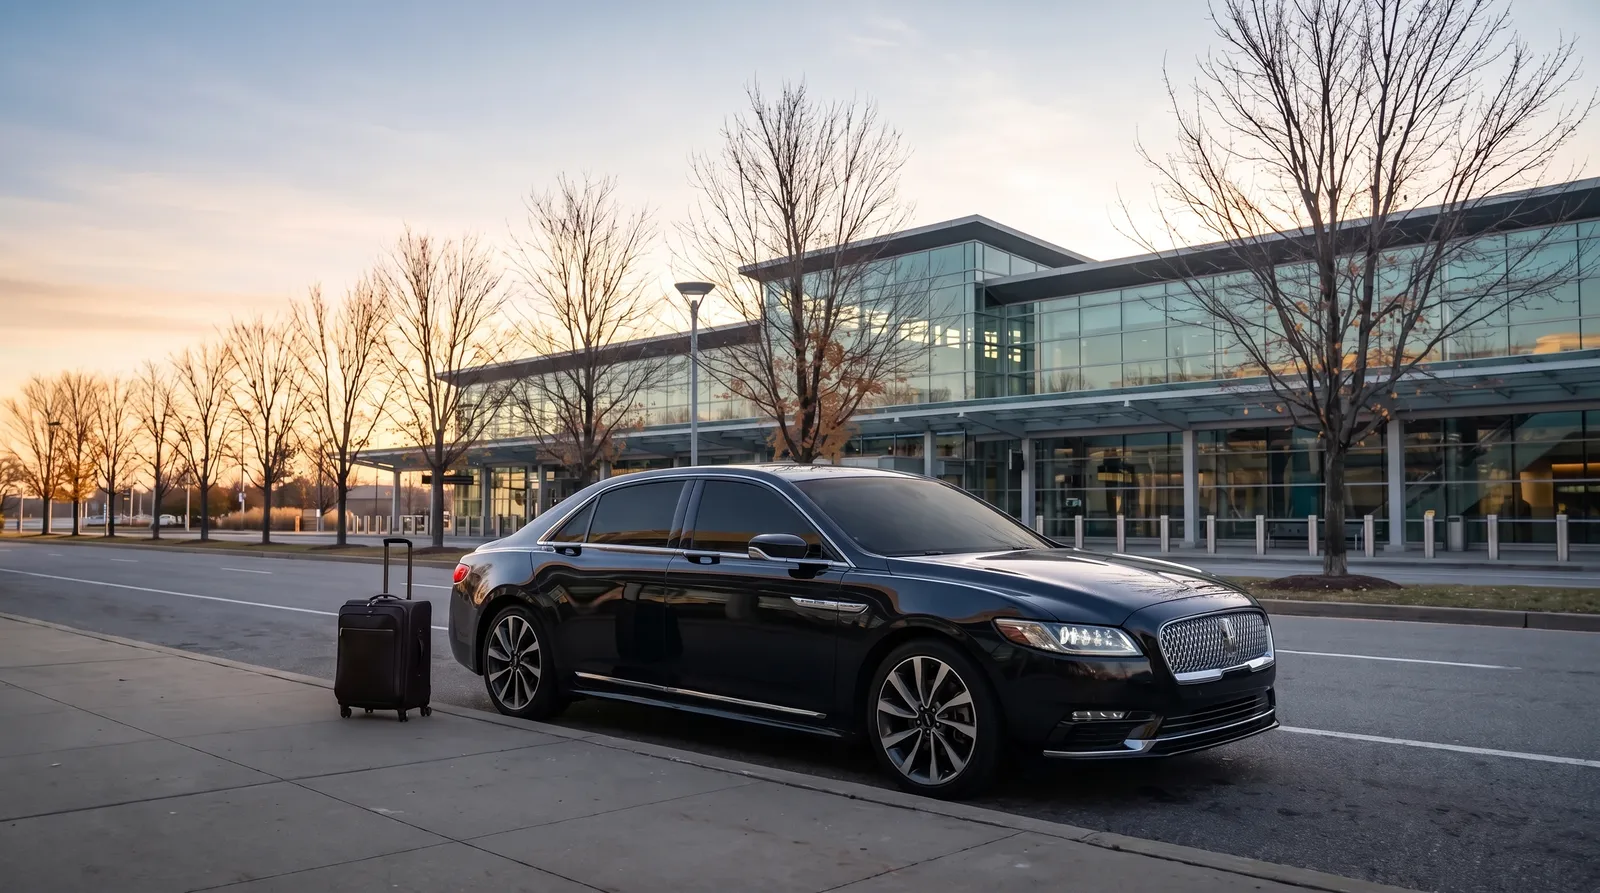
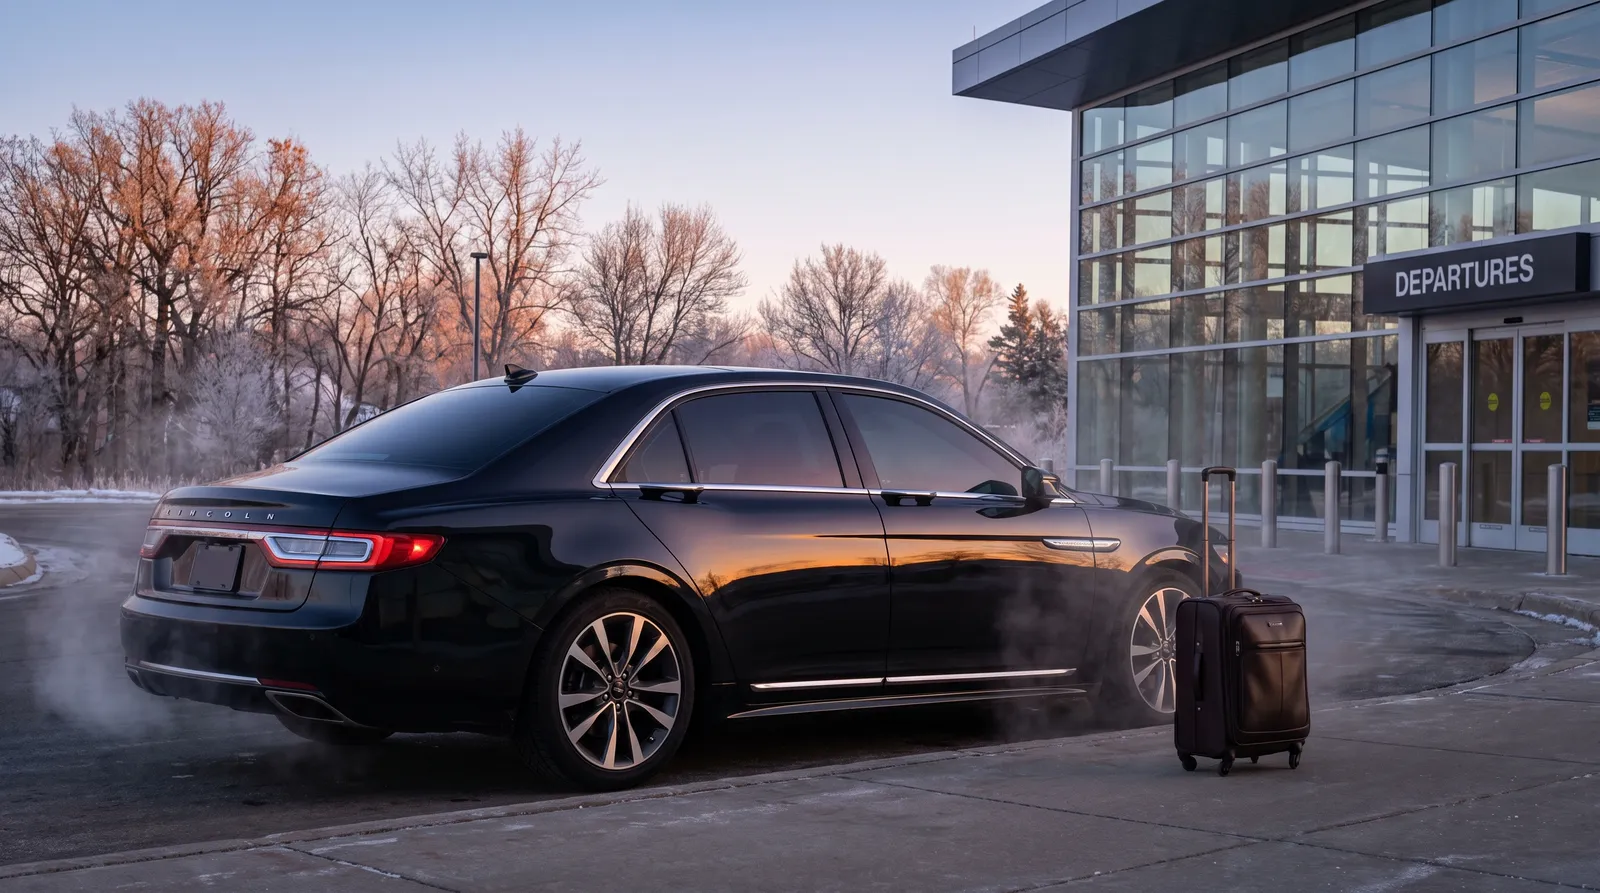
Home: four larger service cards (removed Twin Cities and Long Distance); hourly and blog sunrise images parked at the curb
Claude-Session: https://claude.ai/code/session_01VC4qVVWNY9LKdkogmsrPYJ

diff --git a/index.html b/index.html
@@ -543,13 +543,13 @@
                     </p>
                 </div>
 
-                <div class="grid md:grid-cols-2 lg:grid-cols-3 gap-6 lg:gap-8">
+                <div class="grid md:grid-cols-2 gap-8 lg:gap-10">
                     <!-- Airport Transfers -->
                     <a href="msp-airport-black-car-service.html" class="group relative plate bg-lacquer-850/50 p-8 hover:bg-lacquer-850/90 transition-all duration-500 reveal">
-<div class="mb-7 overflow-hidden"><img src="images/site/airport-transfer.webp" alt="Black luxury SUV pulling up to the MSP airport terminal pickup zone at golden hour with a jet taking off behind" class="block w-full aspect-[16/9] object-cover transition-transform duration-700 group-hover:scale-[1.03]" width="1600" height="893" loading="lazy"></div>
+<div class="mb-7 overflow-hidden"><img src="images/site/airport-transfer.webp" alt="Black luxury SUV pulling up to the MSP airport terminal pickup zone at golden hour with a jet taking off behind" class="block w-full aspect-[16/10] object-cover transition-transform duration-700 group-hover:scale-[1.03]" width="1600" height="893" loading="lazy"></div>
                         <div class="text-[10px] tracking-luxe uppercase text-brass-400 mb-5">No. 1 — House Specialty</div>
-                        <h3 class="text-xl font-display text-ivory-100 mb-3">MSP Airport Transfers</h3>
-                        <p class="text-lacquer-300 font-light mb-6 leading-relaxed">
+                        <h3 class="text-2xl lg:text-3xl font-display text-ivory-100 mb-3">MSP Airport Transfers</h3>
+                        <p class="text-lacquer-300 font-light mb-6 leading-relaxed text-base lg:text-lg">
                             Door-to-terminal service with flight tracking, both terminals, every hour of the night.
                         </p>
                         <div class="flex items-center justify-between">
@@ -562,10 +562,10 @@
 
                     <!-- Corporate -->
                     <a href="corporate-car-service.html" class="group relative plate bg-lacquer-850/50 p-8 hover:bg-lacquer-850/90 transition-all duration-500 reveal">
-<div class="mb-7 overflow-hidden"><img src="images/site/corporate.webp" alt="Executive working on a laptop in the rear seat of a black luxury SUV on the way to a meeting" class="block w-full aspect-[16/9] object-cover transition-transform duration-700 group-hover:scale-[1.03]" width="1600" height="1195" loading="lazy"></div>
+<div class="mb-7 overflow-hidden"><img src="images/site/corporate.webp" alt="Executive working on a laptop in the rear seat of a black luxury SUV on the way to a meeting" class="block w-full aspect-[16/10] object-cover transition-transform duration-700 group-hover:scale-[1.03]" width="1600" height="1195" loading="lazy"></div>
                         <div class="text-[10px] tracking-luxe uppercase text-brass-400 mb-5">No. 2</div>
-                        <h3 class="text-xl font-display text-ivory-100 mb-3">Executive &amp; Corporate</h3>
-                        <p class="text-lacquer-300 font-light mb-6 leading-relaxed">
+                        <h3 class="text-2xl lg:text-3xl font-display text-ivory-100 mb-3">Executive &amp; Corporate</h3>
+                        <p class="text-lacquer-300 font-light mb-6 leading-relaxed text-base lg:text-lg">
                             Town car service for meetings, roadshows, and clients you need to impress.
                         </p>
                         <div class="flex items-center justify-between">
@@ -576,28 +576,12 @@
                         </div>
                     </a>
 
-                    <!-- City transfers -->
-                    <a href="point-to-point-transportation.html" class="group relative plate bg-lacquer-850/50 p-8 hover:bg-lacquer-850/90 transition-all duration-500 reveal">
-<div class="mb-7 overflow-hidden"><img src="images/site/twin-cities.webp" alt="Black GMC Yukon Denali crossing the Stone Arch Bridge with the Minneapolis skyline at blue hour" class="block w-full aspect-[16/9] object-cover transition-transform duration-700 group-hover:scale-[1.03]" width="1600" height="893" loading="lazy"></div>
-                        <div class="text-[10px] tracking-luxe uppercase text-brass-400 mb-5">No. 3</div>
-                        <h3 class="text-xl font-display text-ivory-100 mb-3">Twin Cities Car Service</h3>
-                        <p class="text-lacquer-300 font-light mb-6 leading-relaxed">
-                            Point-to-point across Minneapolis, Saint Paul, and every suburb between.
-                        </p>
-                        <div class="flex items-center justify-between">
-                            <span class="text-oxblood-300 font-medium">From $60</span>
-                            <svg class="w-5 h-5 text-lacquer-500 group-hover:text-oxblood-300 group-hover:translate-x-1 transition-all duration-300" fill="none" stroke="currentColor" viewBox="0 0 24 24">
-                                <path stroke-linecap="round" stroke-linejoin="round" stroke-width="1.5" d="M17 8l4 4m0 0l-4 4m4-4H3"/>
-                            </svg>
-                        </div>
-                    </a>
-
                     <!-- Limo -->
                     <a href="limousine-service-minneapolis.html" class="group relative plate bg-lacquer-850/50 p-8 hover:bg-lacquer-850/90 transition-all duration-500 reveal">
-<div class="mb-7 overflow-hidden"><img src="images/site/evt-escalade-gala.webp" alt="Chauffeur holding the door of a black Cadillac Escalade for a couple arriving at a gala at night" class="block w-full aspect-[16/9] object-cover transition-transform duration-700 group-hover:scale-[1.03]" width="1600" height="893" loading="lazy"></div>
-                        <div class="text-[10px] tracking-luxe uppercase text-brass-400 mb-5">No. 4</div>
-                        <h3 class="text-xl font-display text-ivory-100 mb-3">Limousine &amp; Events</h3>
-                        <p class="text-lacquer-300 font-light mb-6 leading-relaxed">
+<div class="mb-7 overflow-hidden"><img src="images/site/evt-escalade-gala.webp" alt="Chauffeur holding the door of a black Cadillac Escalade for a couple arriving at a gala at night" class="block w-full aspect-[16/10] object-cover transition-transform duration-700 group-hover:scale-[1.03]" width="1600" height="893" loading="lazy"></div>
+                        <div class="text-[10px] tracking-luxe uppercase text-brass-400 mb-5">No. 3</div>
+                        <h3 class="text-2xl lg:text-3xl font-display text-ivory-100 mb-3">Limousine &amp; Events</h3>
+                        <p class="text-lacquer-300 font-light mb-6 leading-relaxed text-base lg:text-lg">
                             Weddings, galas, and nights out — an Escalade for the couple, a Sprinter for the party.
                         </p>
                         <div class="flex items-center justify-between">
@@ -610,10 +594,10 @@
 
                     <!-- Groups -->
                     <a href="group-transportation.html" class="group relative plate bg-lacquer-850/50 p-8 hover:bg-lacquer-850/90 transition-all duration-500 reveal">
-<div class="mb-7 overflow-hidden"><img src="images/site/group.webp" alt="Black Mercedes Sprinter executive van with its door open at a hotel entrance, luggage lined up on the sidewalk" class="block w-full aspect-[16/9] object-cover transition-transform duration-700 group-hover:scale-[1.03]" width="1600" height="893" loading="lazy"></div>
-                        <div class="text-[10px] tracking-luxe uppercase text-brass-400 mb-5">No. 5</div>
-                        <h3 class="text-xl font-display text-ivory-100 mb-3">Group Transportation</h3>
-                        <p class="text-lacquer-300 font-light mb-6 leading-relaxed">
+<div class="mb-7 overflow-hidden"><img src="images/site/group.webp" alt="Black Mercedes Sprinter executive van with its door open at a hotel entrance, luggage lined up on the sidewalk" class="block w-full aspect-[16/10] object-cover transition-transform duration-700 group-hover:scale-[1.03]" width="1600" height="893" loading="lazy"></div>
+                        <div class="text-[10px] tracking-luxe uppercase text-brass-400 mb-5">No. 4</div>
+                        <h3 class="text-2xl lg:text-3xl font-display text-ivory-100 mb-3">Group Transportation</h3>
+                        <p class="text-lacquer-300 font-light mb-6 leading-relaxed text-base lg:text-lg">
                             Sprinter vans for conferences, wedding parties, and crews of up to ten with luggage.
                         </p>
                         <div class="flex items-center justify-between">
@@ -624,21 +608,6 @@
                         </div>
                     </a>
 
-                    <!-- Long distance -->
-                    <a href="service-area.html" class="group relative plate bg-lacquer-850/50 p-8 hover:bg-lacquer-850/90 transition-all duration-500 reveal">
-<div class="mb-7 overflow-hidden"><img src="images/site/winter.webp" alt="Black luxury SUV driving a snow-lined Minnesota highway during a light snowfall at dusk" class="block w-full aspect-[16/9] object-cover transition-transform duration-700 group-hover:scale-[1.03]" width="1600" height="1195" loading="lazy"></div>
-                        <div class="text-[10px] tracking-luxe uppercase text-brass-400 mb-5">No. 6</div>
-                        <h3 class="text-xl font-display text-ivory-100 mb-3">Long Distance</h3>
-                        <p class="text-lacquer-300 font-light mb-6 leading-relaxed">
-                            Rochester, Duluth, St. Cloud, Mankato — statewide, door to door, one fixed price.
-                        </p>
-                        <div class="flex items-center justify-between">
-                            <span class="text-oxblood-300 font-medium">Custom quote</span>
-                            <svg class="w-5 h-5 text-lacquer-500 group-hover:text-oxblood-300 group-hover:translate-x-1 transition-all duration-300" fill="none" stroke="currentColor" viewBox="0 0 24 24">
-                                <path stroke-linecap="round" stroke-linejoin="round" stroke-width="1.5" d="M17 8l4 4m0 0l-4 4m4-4H3"/>
-                            </svg>
-                        </div>
-                    </a>
                 </div>
             </div>
         </section>
